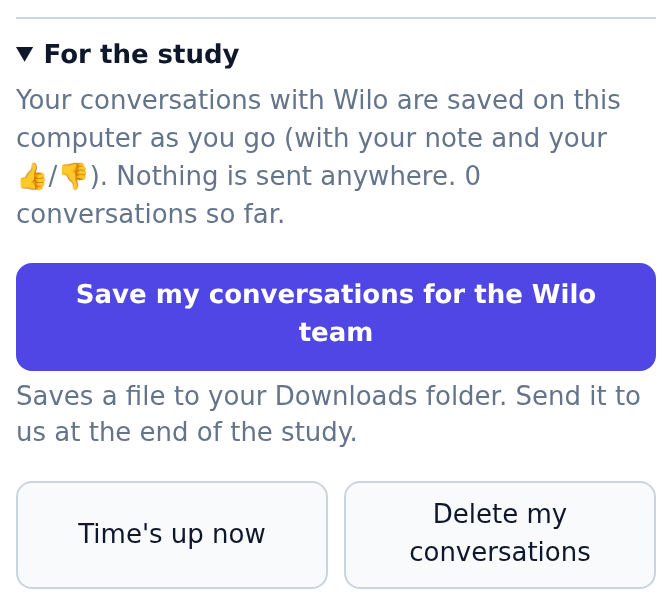
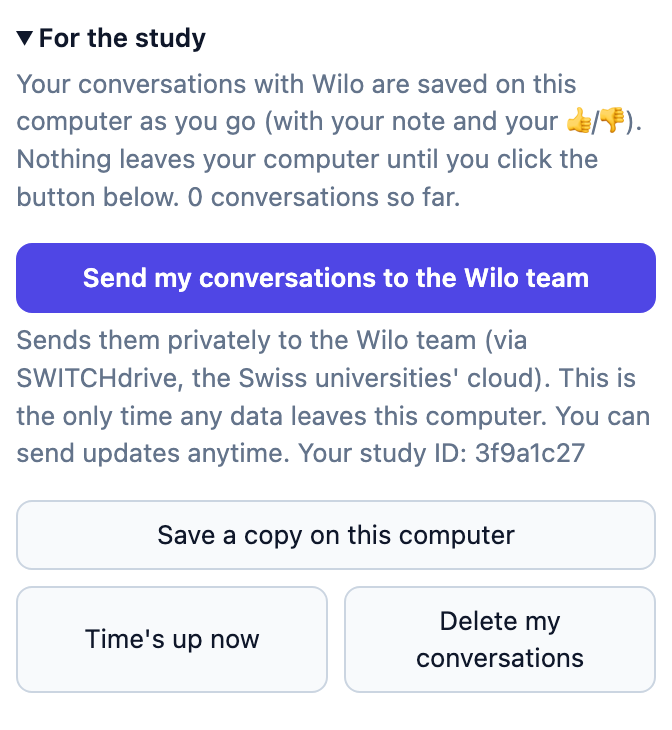
doc: update doc and increment Wilo version to 0.3.1

diff --git a/apps/extension/guide/tester-guide.html b/apps/extension/guide/tester-guide.html
@@ -54,7 +54,7 @@
   <section>
     <h2><span class="num">1</span> Install</h2>
     <ol>
-      <li>Unzip <b>wilo-extension-0.3.0.zip</b> and keep the <b>wilo-extension</b> folder somewhere permanent (e.g. Documents).</li>
+      <li>Unzip <b>wilo-extension-0.3.1.zip</b> and keep the <b>wilo-extension</b> folder somewhere permanent (e.g. Documents).</li>
       <li>In Chrome, go to <code>chrome://extensions</code>, turn on <b>Developer mode</b> ①, click <b>Load unpacked</b> ② and pick the <b>wilo-extension</b> folder.</li>
     </ol>
     <figure>

diff --git a/apps/extension/README.md b/apps/extension/README.md
@@ -4,7 +4,7 @@ The Wilo prototype: a Chrome extension that asks what you're opening Instagram (
 
 ## For testers: install Wilo
 
-You get a file called `wilo-extension-0.3.0.zip`. Use **Google Chrome** (Edge and Brave should work too; Safari and Firefox don't), with 8 GB of RAM or more and good Wi-Fi for the first start.
+You get a file called `wilo-extension-0.3.1.zip`. Use **Google Chrome** (Edge and Brave should work too; Safari and Firefox don't), with 8 GB of RAM or more and good Wi-Fi for the first start.
 
 1. Unzip it. You get a folder `wilo-extension`. Keep it somewhere permanent (e.g. Documents): Chrome loads Wilo from this folder every time.
 2. In Chrome, open `chrome://extensions`.
